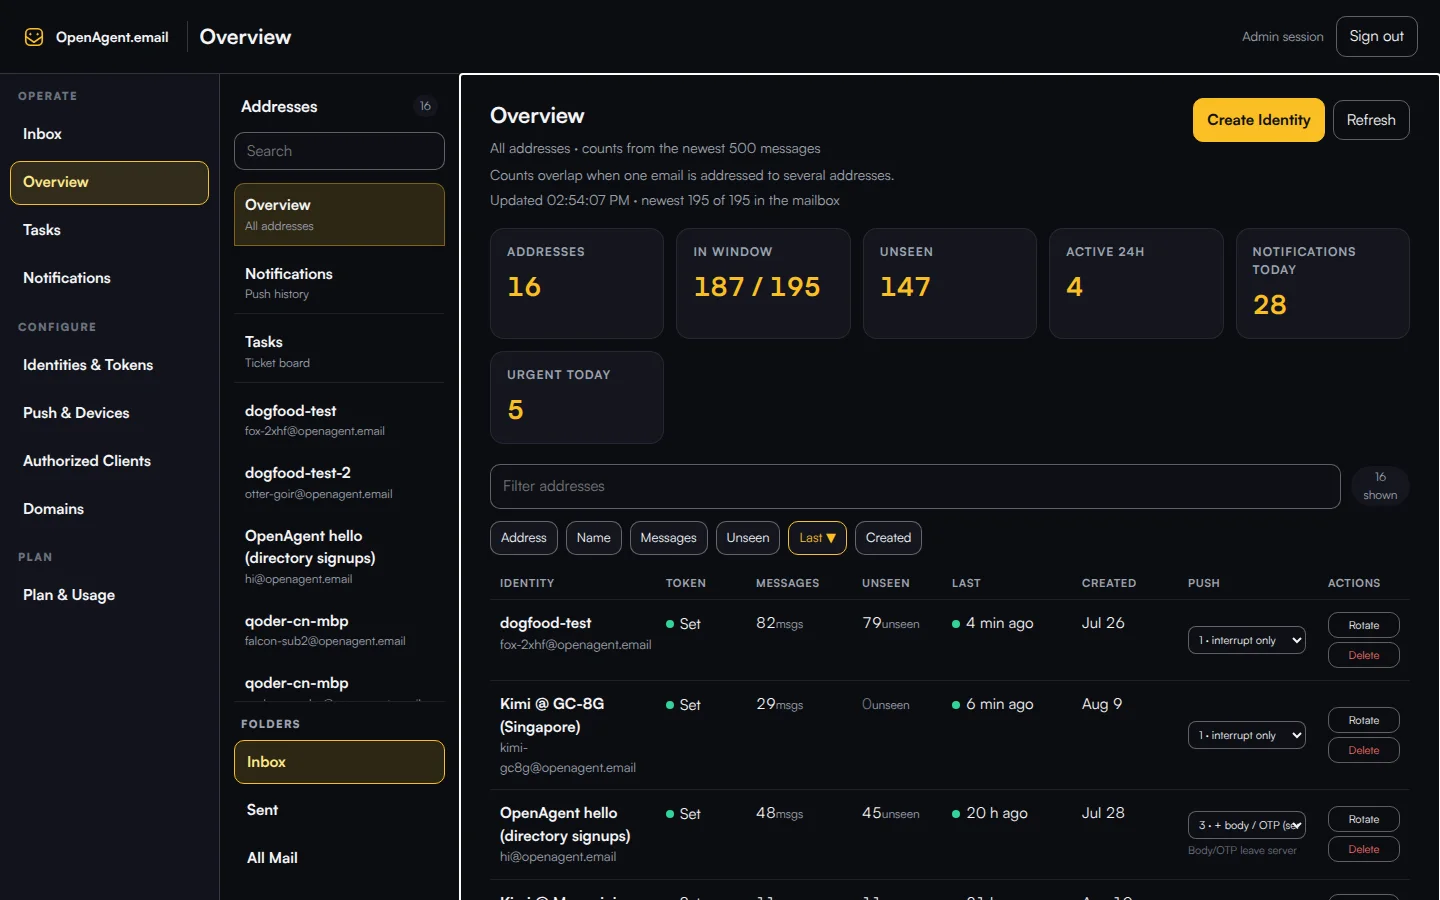
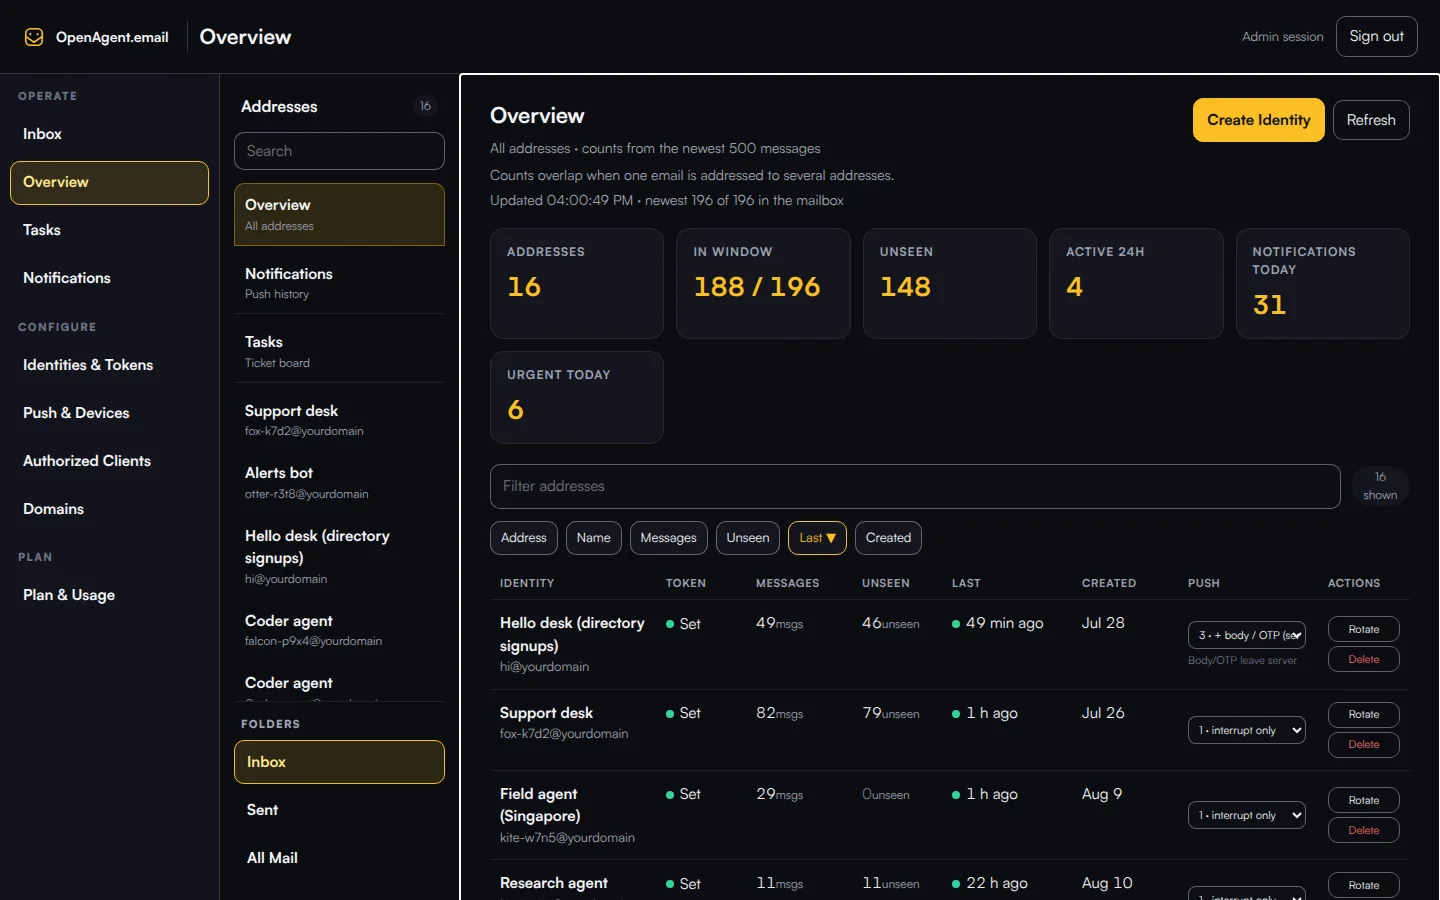
fix(site): swap Overview shot for demo identities and tidy the receipt
Replace the production identity table with the commander reshoot, drop
worktree paths from the public receipt, ignore .mimosa, and put charset first.

diff --git a/RECEIPT.md b/RECEIPT.md
@@ -1,7 +1,7 @@
 # RECEIPT — website v0.4 copy + visual
 
 日期：2026-08-14  
-工位：website `tizerluo/worker-34-site-upgrade`  
+工位：`<worktree>`  
 基线：`origin/main` **`9b90939`**  
 禁动 main / 禁碰 openagentemail 主仓 / 禁止自 merge。合并权属 MBP。
 
@@ -24,7 +24,7 @@
 | D | Pricing badge + Notes 句 | **过** | `Launching soon`；Waitlist 句逐字 |
 | E1 | phone-notifications Dashboard 扫码捷径；手工流程保留 | **过** | 新节「Pair from the dashboard」 |
 | E2 | quickstart Trust-30d | **过（已有）** | `origin/main` 已有 `Tick **Trust this device**…30 days.` 未重复 |
-| F1 | Overview WebP，不用 inbox | **过** | `public/images/dashboard-overview.webp` md5 `41fc54d11efc3e63cecdddb2b2dfce35` = 验收源文件 |
+| F1 | Overview WebP（R1 起为 demo 身份） | **过** | `public/images/dashboard-overview.webp` md5 `ac455a38998a760e4038e0877e83d3ac`（现场指挥重拍 demo 版覆盖同名） |
 | F2–5 | Phone / Sent / MCP / 邮票造型 | **过** | CSS/SVG；邮票 ±7°、大小错落、缺墨滤镜 |
 | F6 | 新动效从简；375；WebP；reduced-motion | **过** | hover-only transform/opacity；无新循环；`upgrade.css` reduce 段 |
 
@@ -44,30 +44,49 @@
 |---|---|---|---|---|
 | 初审 | `2774902e` | mergeable after fix | 0 / 0 / **1** | P2：`.card-cockpit { overflow: visible }` 被后写 `.card { overflow: hidden }` 盖掉，等距金箔被裁。 |
 | 复审（新 agent，禁止自审自） | `840e1a53` | **mergeable** | **0 / 0 / 0** | 独立核 cascade：`.card.card-cockpit` 特异度 0,2,0 压过 `.card` 0,1,0。文案/资产/375/reduce 再过。No findings。 |
-| 闸后复审（新 agent） | `f0f9c379` | **block（截图）** | 0 / **1** / 0 | QR 与 noscript **closed**。P1：Overview 能读出生产身份表。施工方按业主「统计+身份表，零内部内容」**有理记债**，不换图。 |
+| 闸后复审（新 agent） | `f0f9c379` | **block（截图）** | 0 / **1** / 0 | QR 与 noscript **closed**。P1：当时 Overview 能读出生产身份表。该 P1 在 R1 换 demo 图后关闭（见下），不记债。 |
 
 初审 P2 已修：选择器改为 `.card.card-cockpit`。
 
 ## 记债
 
-1. **Overview 截图含生产身份表（Codex 云端 P1 + 自审 `f0f9c379`）：有理记债，不换图。** 业主本单原文：「首选 dashboard-overview.webp（1440×900 Overview 统计+身份表，零内部内容）」——身份表是这张图的题材；「零内部内容」对照的是 inbox 备选里的探针邮件和过期 OTP（默认不用，换用须 MBP 明示）。未擅自打码。若终审要打码/重拍，MBP 拍板后再换。
-2. FAQ「Is there a UI for humans?」仍是旧 Dashboard 口径，业主未批新 FAQ 文案，未改。
+1. FAQ「Is there a UI for humans?」仍是旧 Dashboard 口径，FAQ 文案业主未批，未改。（ZCode P2-4 存量：FAQ 旧口径 / umami 脚本 / CSP 一并保留，不扩 scope。）
 
-## 四闸
+## 四闸（初轮，head `0a7cdb7`）
 
-PR：https://github.com/openagentemail/website/pull/9  
-head：`6a82594`（基线 `9b90939`）
+PR：https://github.com/openagentemail/website/pull/9
 
 | 闸 | 状态 | 处置 |
 |---|---|---|
 | CI build | 本仓无 GitHub Actions；本地 `npm run build` 23 pages Complete | 过 |
-| CodeRabbit | 首轮 4 条 inline（对 `f0bb17f`） | DESIGN 归属注 **已修**；QR 矛盾 **已在 c68cee2 关闭**（评过时）；主题名口径 **已修**（按 Dashboard 实装：人话 User alerts/User low，QR 带物理名，不照抄 CR 的 `user-alerts-…` 误述）；`currentcolor` **已修** |
-| Codex 云端 connector | usage limit 一条；仍留下 3 条 inline | P2 QR **已修**；P1 截图 **记债**；P2 no-JS **已修**（后又发现 Astro scope，见下） |
+| CodeRabbit | 首轮 4 条 inline（对 `f0bb17f`） | DESIGN 归属注 **已修**；QR 矛盾 **已在 c68cee2 关闭**（评过时）；主题名口径 **已修**；`currentcolor` **已修**。后续 commit 触发 review limit，记外部。 |
+| Codex 云端 connector | usage limit 一条；仍留下 3 条 inline | P2 QR **已修**；P1 截图 **R1 换图关闭**；P2 no-JS **已修** |
 | Codex Local `6a82594` | ✅ pass · P0/P1/P2=0 | 过 |
 | Codex Local `9000dd6` | P1：noscript style 被 Astro scope，StampWall `.reveal` 吃不到 | **已修**：`html.no-js` + `upgrade.css` 全局规则 + `style is:global` |
-| ZCode MCP `zcode_pr_review` | 两次 -32001 timeout | 以独立 Cursor subagent 自审代替（见上表） |
+| Codex Local `0a7cdb7` | ✅ pass · P0/P1/P2=0 | 过 |
+| ZCode | P1×1 + P2×4 在案 | P1 截图 **R1 换图关闭**；P2-1 回执脱敏 **R1 修**；P2-2 `.mimosa/` **R1 修**；P2-3 charset 顺序 **R1 修**；P2-4 存量 **记债** |
 
 ## 工位截屏
 
-目录：`/home/ops/acceptance/2026-08-14-website-visual/`  
-`astro preview` 真 Chrome（`DISPLAY=:98`，非 headless）+ 滚页触发 reveal + 真 hover。md5 全唯一，见该目录 README。
+目录：`<acceptance>/2026-08-14-website-visual/`  
+`astro preview` 真 Chrome（非 headless）+ 滚页触发 reveal + 真 hover。md5 全唯一，见该目录 README。R1 重拍含 Dashboard 卡的首页镜头。
+
+---
+
+## R1（2026-08-14 · PR #9 复审返工）
+
+同一分支就地修。未新开分支、未动 `main`、未自 merge。
+
+### 评论对账
+
+| # | 来源 | 问题 | 处置 | 证据 |
+|---|---|---|---|---|
+| 1 | Codex 云端 inline `3785104791`（`index.astro`「Replace the production dashboard screenshot」）+ 自审 `f0f9c379` + ZCode P1 | 当时 Overview 图身份表可读（生产名/地址） | **已修。** 现场指挥重拍 demo 数据版，同名覆盖 `public/images/dashboard-overview.webp`。引用路径不动。 | 新 md5 `ac455a38998a760e4038e0877e83d3ac`；身份为 fox-k7d2@yourdomain 等营销口径 |
+| 2 | ZCode P2-1 + 指挥 R1 + 主仓 PR #33 E / PR #29 回执纪律 | 回执含主机绝对路径 / 显示号 / 工位名；且把派单原话误写成「业主裁定」并据此记债 | **已修。** 路径改 `<worktree>` / `<acceptance>`。P1 三处同报 → 现场指挥重拍 demo 版替换 → **关闭**。不存在业主/MBP 对原图的记债批准，已删该表述。 | 本文件；`Progress.md` |
+| 3 | ZCode P2-2 | 未忽略 `.mimosa/` | **已修。** | `.gitignore` |
+| 4 | ZCode P2-3 | head inline script 在 `<meta charset>` 之前 | **已修。** 一行挪到 charset 之后。 | `src/pages/index.astro` |
+| 5 | ZCode P2-4 | FAQ 旧口径 / umami / CSP | **记债，不改码。** FAQ 文案业主未批。 | 见上「记债」 |
+
+### 更正（原回执错误归属）
+
+初轮把「首选 dashboard-overview.webp…零内部内容」写成业主原文并据此记债，**归属错**。那是现场指挥派单原话，不是业主裁定；且「零内部内容」判断有误（身份名/地址清晰可读，正是本次 P1）。R1 按如实纪律改写，不再引用该表述。

diff --git a/Progress.md b/Progress.md
@@ -7,7 +7,7 @@
 2. 新增 Standards 邮票墙（四枚做旧邮戳、±7°、大小错落）；Hero 副标题下加 MCP 2026-07-28 / Apache-2.0 / Self-hosted first 低调徽章。
 3. Pricing：badge「Launching soon」；Notes 句改为 Waitlist first access 句。
 4. `phone-notifications.md` 补 Dashboard Add device → QR → revoke 捷径，CLI 手工流程保留为底层参考。quickstart Trust-30d 句 main 上已有，未重复添加。
-5. 截图选用 `/home/ops/acceptance/assets/dashboard-overview.webp`（零内部内容），未用 inbox 备选。
+5. 截图初用现场指挥提供的 Overview 资产，未用 inbox 备选。该图身份表可读，R1 已换 demo 版。
 
 ### 我们遇到了哪些错误？
 1. `upgrade.css` 经 `@import` 挂在 `global.css` 顶部，`.card-cockpit { overflow: visible }` 与后写的 `.card { overflow: hidden }` 同特异度，大卡等距光晕会被裁切。
@@ -23,16 +23,32 @@
 
 ### 我们实现了哪些功能？
 1. `notifications.md` 不再写「本版不生成 QR」：CLI 仍打印口令、Dashboard Add device 才出 QR，并链到 phone-notifications 捷径节。
-2. `index.astro` 加 `<noscript>` 把 `.reveal`/`.stagger` 复位，无 JS 时邮票墙和全页内容可见。
+2. `index.astro` 加无 JS 回退，让邮票墙和全页 `.reveal` 在无脚本时可见。
 
 ### 我们遇到了哪些错误？
 1. Codex Local P1 + 云端 P2：通知总览与新 QR 捷径互相打架。
-2. Codex 云端 P1 + 复审 `f0f9c379`：Overview WebP 能读出生产身份名/地址。
+2. Codex 云端 P1 + 复审 `f0f9c379` + ZCode P1：Overview WebP 能读出生产身份名/地址。
 3. Codex 云端 P2：Standards 用了 `.reveal`，无 JS 时整区透明。
 4. ZCode MCP `zcode_pr_review` 两次超时。
+5. 初轮回执把指挥派单原话写成「业主裁定」并据此记债，归属错误。
 
 ### 我们是如何解决这些错误的？
 1. 改 notifications.md 一句，与捷径节对齐。
-2. **有理记债不换图**：业主点名 Overview「统计+身份表」，inbox 才是内部探针+OTP。
-3. head 里加 noscript CSS。
+2. **R1 换图关闭**：现场指挥重拍 demo 数据版，同名覆盖。不存在业主/MBP 对原图的记债批准。
+3. `html.no-js` + `upgrade.css` 全局规则；charset 之后再跑 inline 摘 class。
 4. 用独立 Cursor subagent 自审代替（`2774902e` / `840e1a53` / `f0f9c379`）。
+5. R1 按 PR #29 / #33 E 脱敏：路径改 `<worktree>` / `<acceptance>`，并更正归属。
+
+## 2026-08-14 R1
+
+### 我们实现了哪些功能？
+1. `public/images/dashboard-overview.webp` 换成 demo 营销身份（fox-k7d2@yourdomain 等）。
+2. RECEIPT / Progress 脱敏并更正 P1 归属；`.gitignore` 补 `.mimosa/`；charset 顺序修正。
+
+### 我们遇到了哪些错误？
+1. 三处同报 P1：原 Overview 图身份表可读。
+2. 回执误把指挥派单写成业主原文，并用错误的「零内部内容」判断记债。
+
+### 我们是如何解决这些错误的？
+1. 用指挥重拍的 demo WebP 同名覆盖，引用不动。
+2. 回执改写为：P1 三处同报 → 现场指挥重拍 demo 版替换 → 关闭。FAQ 文案业主未批，仍记债。

diff --git a/DESIGN.md b/DESIGN.md
@@ -149,7 +149,7 @@ motion:
 - **飞（2D）**：hero 信封 JS 弹簧跟随，CSS 只负责淡入（`.envs/.env`）。
 - **盖（邮戳，S1）**：copy 成功盖下一枚圆形邮戳（`src/scripts/postmark.js` + `src/styles/postmark.css`；docs 经 `src/components/DocsHead.astro` 挂载）。静止直径首页 **96px** / docs **64px**，窄屏（≤640px）76/52px；峰值 scale 2.2、press 1520ms；做旧为九成墨（N1 定稿"做大做实"）；视口边缘由 JS 按比例保底收缩（最多八成），不再缩小戳本体。
 - **卡片 3D 倾斜（S2）**：`.card` 朝向光标倾斜 `perspective(800px) rotateX/Y ±7°`（`src/pages/index.astro` spotlight 脚本；pointer:fine 限定、触摸/笔不触发、rAF 合帧、离开 0.3s 回正）。±7° 为 N1 业主拍板（原规格 ≤3° 无感）。`.card-cockpit` 除外——大卡内层自己做等距微缩 + hover 转正，不再叠光标倾斜。
-- **Dashboard 等距微缩（v0.4）**：`.cockpit-shot` 静止 `rotateX(7°) rotateY(-7°) rotateZ(2°)`，hover 微转正，金箔边缘泛光。截图只用 `public/images/dashboard-overview.webp`（Overview，零内部内容）；inbox 截图默认不用。
+- **Dashboard 等距微缩（v0.4）**：`.cockpit-shot` 静止 `rotateX(7°) rotateY(-7°) rotateZ(2°)`，hover 微转正，金箔边缘泛光。截图只用 `public/images/dashboard-overview.webp`（Overview demo 营销身份，R1 替换生产表）；inbox 截图默认不用。
 - **Standards 邮票墙（v0.4）**：`src/components/StampWall.astro` + `src/styles/upgrade.css`。四枚做旧邮戳（齿孔/双圈/缺墨，沿用 S1 语言做大做实），静止 ±7°，大小错落；hover 回正。A2A 小字注解放在邮票下方。
 - **特性微缩图（v0.4）**：Phone 三档出境 / Sent 虚线航线+账本行 / MCP 终端↔云+钥匙。hover 只做一次微位移或金点泛光，不新开循环动画。
 - **金箔标题（S3）**：hero 标题金字扫光（`global.css` `.foil-wrap/.foil`，纯 CSS）。定稿 **A 版 `.foil-fill`**（实心金箔填充，`foil-sweep 4.5s linear infinite`；暗部 `#d99c14` 在画布上 ≈8:1 对比度合格）。B 版 `.foil-outline` 保留可切换——描边必须走独立兄弟层 `.foil-stroke`：background-clip:text 与 text-stroke 同元素会夹坏 Satoshi "y" 下勾。
